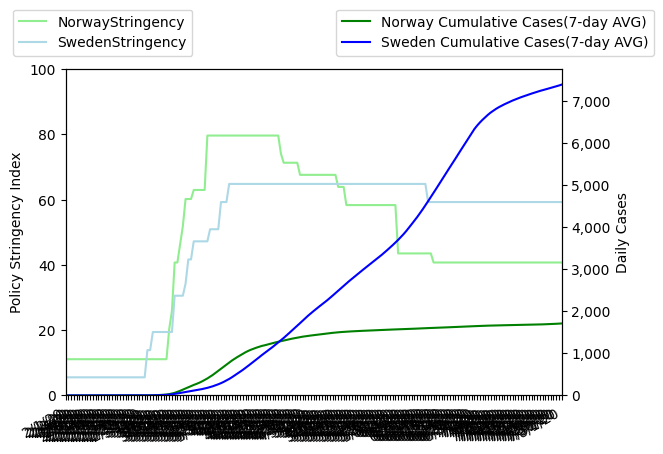
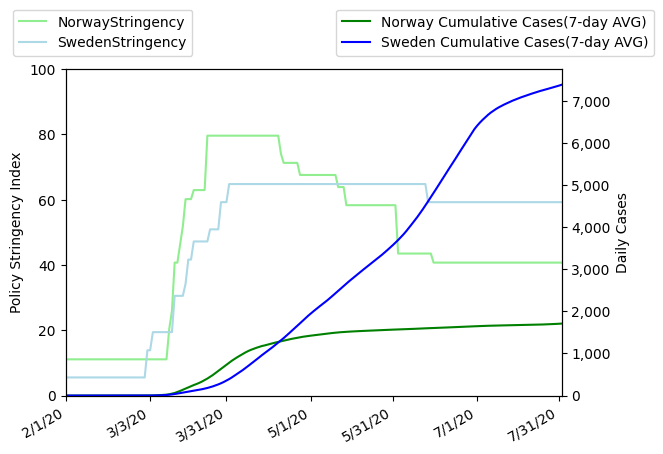
formatted x-axis in stringency.png

diff --git a/DisplayNorwaySweden.py b/DisplayNorwaySweden.py
@@ -1,9 +1,10 @@
 import pandas as pd
-import matplotlib
 import matplotlib.pyplot as plt
 import datetime as datetime
 import numpy as np
 from statsmodels.tsa.stattools import grangercausalitytests
+import matplotlib.dates as mdates
+import matplotlib.ticker as mticker
 
 oxford_file_path1 = 'COVIDandSTRINGENCY_data/NorwaySwedenStringency.csv'
 ConfirmFile = 'COVIDandSTRINGENCY_data/NS_cases_confirmed.csv'
@@ -79,7 +80,7 @@ def read_oxford_data(confirmed, days):
     start_date = "1-Feb-20"
     end_date = "1-Aug-20"
     start_index = df1.columns.get_loc(start_date)
-    end_index = df1.columns.get_loc(end_date)+1
+    end_index = df1.columns.get_loc(end_date) + 1
     df = df1.iloc[:, start_index:end_index]
     #	mask = (df['Date'].strptime("%d-%B-%y")).strftime("%y%m%d") > 20220401)
     # Norway_str =
@@ -88,17 +89,15 @@ def read_oxford_data(confirmed, days):
     stringency_Norway = df.iloc[0]
     stringency_Sweden = df.iloc[1]
 
-
     fig, ax = plt.subplots()
     colorS1 = 'lightgreen'
     colorS2 = 'lightblue'
     confirmed7_Norway = confirmed_Norway.rolling(7, min_periods=1).mean()
     confirmed7_Sweden = confirmed_Sweden.rolling(7, min_periods=1).mean()
     # dconfirmed_N = pd.Series(np.diff(confirmed))
-    dconfirmedN7 = pd.Series(np.diff(confirmed7_Norway))/5370
-    dconfirmedS7 = pd.Series(np.diff(confirmed7_Sweden))/10370
+    dconfirmedN7 = pd.Series(np.diff(confirmed7_Norway)) / 5370
+    dconfirmedS7 = pd.Series(np.diff(confirmed7_Sweden)) / 10370
     first_legend = True
-
 
     # X = dfstate['Date']
     # X = [str(d) for d in X]
@@ -118,10 +117,10 @@ def read_oxford_data(confirmed, days):
     # dconfirmed =
     # ax.plot(Xdates, dconfirmed, color='red')
 
+    ax2 = ax.twinx()
     ax.plot(days, stringency_Norway, color=colorS1, label='NorwayStringency')
     ax.plot(days, stringency_Sweden, color=colorS2, label='SwedenStringency')
     ax.set_ylim(0, 100)
-    ax2 = ax.twinx()
 
     # first_legend = True
     # for i in range(1, len(dconfirmed7A) - 1):
@@ -136,19 +135,20 @@ def read_oxford_data(confirmed, days):
     # ax2.plot(days, dconfirmedN7, color='red', label='Norway Daily Cases(7-day AVG) per population')
     # ax2.plot(days, dconfirmedS7, color='blue', label='Sweden Daily Cases(7-day AVG) per population')
 
-    ax2.plot(days,(confirmed7_Norway[1:])/5.37 , color='green', label='Norway Cumulative Cases(7-day AVG)')
-    ax2.plot(days,(confirmed7_Sweden[1:])/10.37 , color='blue', label='Sweden Cumulative Cases(7-day AVG)')
+    ax2.plot(days, (confirmed7_Norway[1:]) / 5.37, color='green', label='Norway Cumulative Cases(7-day AVG)')
+    ax2.plot(days, (confirmed7_Sweden[1:]) / 10.37, color='blue', label='Sweden Cumulative Cases(7-day AVG)')
 
     # plt.ticklabel_format(style='plain', axis='y')
-    ax2.get_yaxis().set_major_formatter(matplotlib.ticker.FuncFormatter(lambda x, p: format(int(x), ',')))
+    ax2.yaxis.set_major_formatter(mticker.FuncFormatter(lambda x, p: format(int(x), ',')))
     ax2.set_ylim(0, ax2.get_ylim()[1])
-    ax.set_xlim(days[0],days[-1])
+    ax.set_xlim(days[0], days[-1])
     ax.legend(loc='lower left', bbox_to_anchor=(-0.12, 1.02))
     ax2.legend(loc='lower right', bbox_to_anchor=(1.2, 1.02))
-    fig.autofmt_xdate()
     ax.set_ylabel('Policy Stringency Index')
     ax2.set_ylabel('Daily Cases')
-
+    ax2.xaxis.set_visible(False)
+    ax.xaxis.set_major_locator(mdates.AutoDateLocator())
+    fig.autofmt_xdate()
     # plt.show()
     fig.savefig('COVIDandSTRINGENCY_data/stringency.png', bbox_inches='tight')
     # granger(Xdates, Y, Y1, policyRec)
